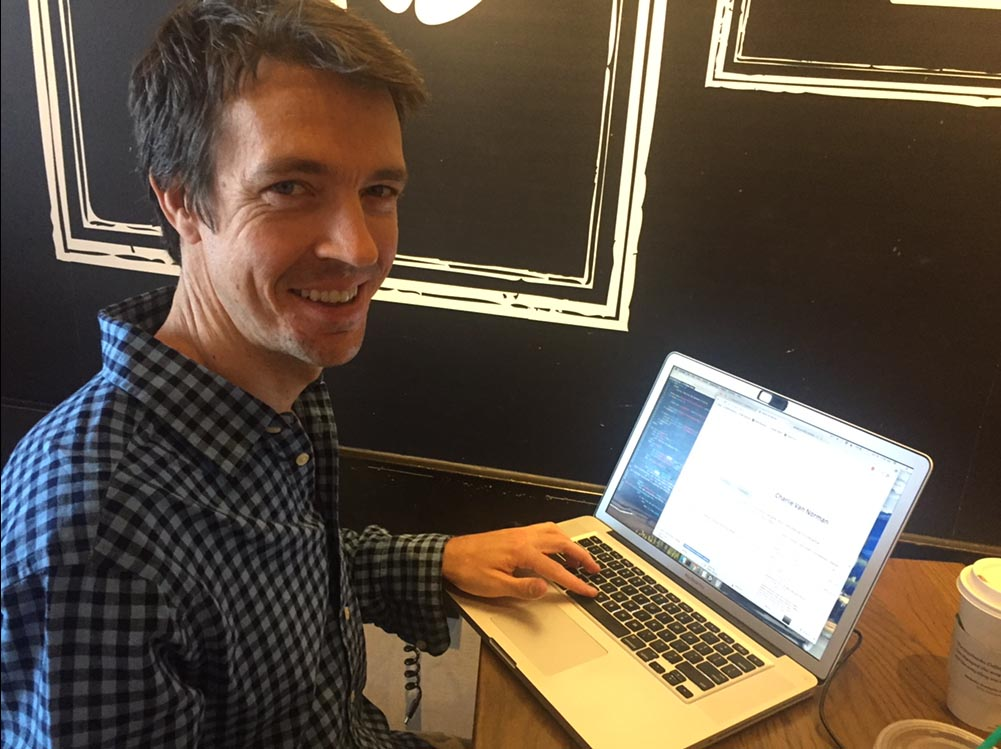
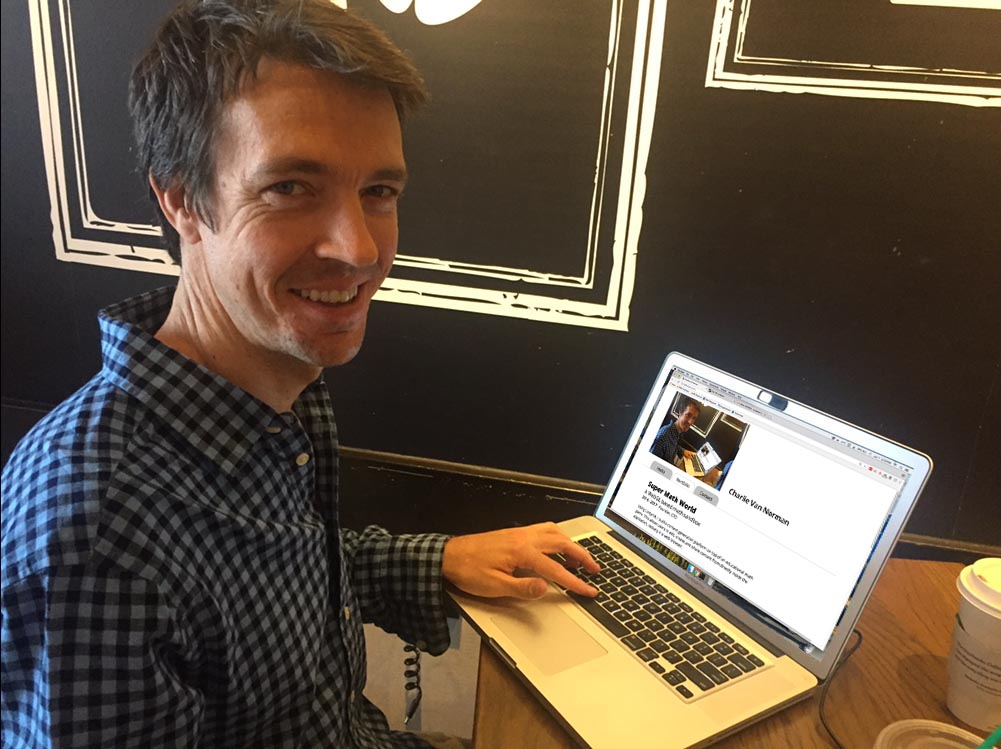
$1

Changed region(s): [[0.5884, 0.4913, 0.8362, 0.8291], [0.7742, 0.6142, 0.9291, 0.8905], [0.8052, 0.5834, 0.8671, 0.6142]]

diff --git a/charlievannorman/templates/home.html b/charlievannorman/templates/home.html
@@ -14,7 +14,7 @@
 
 	{% block scripts %}
 		<script src='{% static "js/jquery-1.11.0.min.js" %}'></script>
-		<script src='{% static "js/home.js" %}'></script>
+		<script src='static/js/home.js'|add:version|safe %}'></script>
 		<script src='static/js/imageviewer.js'|add:version|safe ></script>
 		<script src='static/js/vimeoPopup.js'|add:version|safe ></script>
 		<script src='static/js/scrollcontrol.js'|add:version|safe ></script>
@@ -45,32 +45,31 @@
 	</div>
 	<div id="tabs">
 		<ul>
-			<li id="tabButtonAbout" class="tabButton selected">Hello</li>
-			<li id="tabButtonPortfolio" class="tabButton">Portfolio</li>
-			<li id="tabButtonContact" class="tabButton">Contact</li>
+			<li class="tabButton selected">Hello</li>
+			<li class="tabButton">Portfolio</li>
+			<li class="tabButton">Resume</li>
+			<li class="tabButton">Contact</li>
 		</ul>
 		<div id="tabsContainer">
 
 			<!-- tabs content begins here -->
 			<div id="tabAbout" class='tab'>
-				<h3> Hello world! I am a game designer and web developer. </h3>
-				<p>
-					The spaces I am most passionate about are:
+				I am a game designer and software developer. I work best with small, agile teams (e.g. startups).
+				
+					<p>
+					Some spaces I am interested in:
 					<ul>
-						<li> Education</li>
-						<li> Biotech & chemistry </li>
-						<li> 3D interaction design </li>
+						<li> Educational video games</li>
+						<li> Biotech & chemistry simulations </li>
 						<li> Machine Learning </li>
+						<li> Real Estate </li>
 					</ul>
 				</p>
-				<p> My pastimes include: 
+				<p> Other stuff I enjoy doing: 
 					<ul>
 						<li> Playing Go (Rank ~5kyu)</li>
 						<li> Composing and playing music, mainly Keyboard and Guitar </li>
 						<li> Climbing & Bouldering </li>
-						<li> Carpentry </li>
-						<li> Constructing imaginary cities </li>
-						<li> Making video games </li>
 					</ul>
 				</p>
 						
@@ -81,18 +80,24 @@
 				<ul>
 					{% for item in portfolio %}
 						<li class='item'>
-							<div class="top">
-								<div class='title'> 
-									{{ item.title }}
-								</div>
-								<div class='subtitle'> 
-									{{ item.subtitle }}
-									<div class="year">{{item.year}}</div>
-								</div>
+							<div class="top1">
+								<div class='title'><a href={{item.link}} target="_blank"> {{ item.title }} </a></div>
+								<div class='subtitle'> {{ item.subtitle }}	</div>
 							</div>
-							<div class="description">{{ item.description|safe }}
+							<div class="top2">
+								<div class="year">{{item.year}}</div>
+								<div class="position">{{item.position}}</div>
+								
+							</div>
+							<div class="description">
+								{{ item.description|safe }}
+							</div>
+							<div class="responsibilities">	
+								<div class="head">
+									My responsibilities:
+								</div>
 								<ul>
-									{% for d in item.description_list %}
+									{% for d in item.responsibilities %}
 										<li> {{ d }} </li>
 									{% endfor %}
 								</ul>
@@ -121,8 +126,11 @@
 					{% endfor %}
 				</ul>
 			</div>
+			<div id="tabResume" class='tab'>
+				<div class='img'></div>
+			</div>
 			<div id="tabContact" class='tab'>
-				Email: me@charlievannorman.com
+				Email: <a href="mailto:me@charlievannorman.com?subject=Hi!" target="_blank">me@charlievannorman.com</a>
 			</div>
 
 		</div>

diff --git a/static/css/home.css b/static/css/home.css
@@ -122,8 +122,20 @@ body {
 	position:absolute; top:0px; left:30px;
 	
 }
-#tabPortfolio, #tabContact {
+#tabAbout, #tabContact {
+	padding: 30px;
+}
+#tabPortfolio, #tabContact, #tabResume {
 	display:none;
+
+}
+
+#tabResume .img {
+	 background-image:url("/static/img/resume.png");
+	background-size:cover;
+	width:100%;
+	height:160%;
+	background-position:center;
 }
 
 .imageList {
@@ -141,60 +153,69 @@ body {
 
 }
 
-.item .top {
-	margin-top:20px;
+.item .top1, .item .top2 {
 	width:100%;
 	position:relative;
 	top:0;
-	height:80px;
+	display:block;
+}
+.item .top1 {
+	margin-top:20px;
+	height:auto;
+
+}
+.item .top2 {
+	height:auto;
+	margin-top:-10px;
 }
 .item .title {
 	font-size:29px;
-	font-weight:800;
+	font-weight:600;
 	position:relative;
-	float:left;
 	
 }
 .item .year {
 	font-weight:600;
-	font-size:19px;
-	position:absolute;
-	right: 0;
+	display:inline-block;
+	top:30px;
+	padding: 10px 10px 0 0px;
+}
+.item .position {
+	display:inline-block;
+	left:0;
+	top:35px;
 }
 
 .item .subtitle {
 	top:5px;
 	font-size:22px;
 	font-weight:400;
-	position:absolute;
-	right:0;
+	left:0;
 }
 
 .item .description {
 	width:640px;
-	margin: 20px 0 50px 0;
+	margin: 20px 0 20px 0;
 	position:relative;
 }	
-
-
-
-
 
 .imageList > li > a {
 	position:relative;
 }
 .imageList > li > a > .img {
-	width:200px; height:120px; background-size:cover;
+	width:150px; 
+	height:90px; 
+	background-size:cover;
 	position:relative;
 }
 
 .imageHover {
-	width:200px;
-	height: 120px;
+	width:150px;
+	height: 90px;
 	background-color:transparent;
 	z-index:105;
 	position:absolute;
-	top:-120px;
+	top:-90px;
 	transition: all .3s;
 	-webkit-transition: all .3s;
 }
@@ -208,8 +229,8 @@ body {
 	background-repeat:no-repeat;
 	width:65px; height: 65px;
 	position:absolute;	
-	top:-90px;
-	left:65px;
+	top:-80px;
+	left:45px;
 }
 
 
@@ -217,6 +238,26 @@ body {
 	margin-top:20px;
 
 }
-#tabPortfolio .item .description > ul > li {
+#tabPortfolio .item .responsibilities > ul {
+	margin : 0; padding:0;
+}
+
+
+#tabPortfolio .item .responsibilities > ul > li {
 	display:block;
+}
+
+#tabPortfolio .item .responsibilities > .head {
+	font-weight:600;
+}
+a {
+	text-decoration:none;
+	color:black;
+}
+a:hover {
+	text-decoration:underline;
+}
+a, a:-webkit-any-link, a:visited, { 
+	color:black;
+	text-decoration:none;	
 }

diff --git a/static/js/home.js b/static/js/home.js
@@ -1,5 +1,5 @@
 $(document).ready(function(){
-	$('#tabButtonAbout').click(function(){
+/*	$('#tabButtonAbout').click(function(){
 		ShowTab($(this),$('#tabAbout'));
 	});
 	$('#tabButtonPortfolio').click(function(){
@@ -7,24 +7,26 @@ $(document).ready(function(){
 	});
 	$('#tabButtonContact').click(function(){
 		ShowTab($(this),$('#tabContact'));
+	}); */
+	$('.tabButton').click(function(){
+		$('.tabButton').each(function(){
+			$(this).removeClass('selected');
+		});
+		ShowTab($(this).index());
+		$(this).addClass('selected');
 	});
+//	ShowTab($('#tabButtonPortfolio'),$('#tabPortfolio'));
 });
 
-function HideTabs () {
+function ShowTab(i){
 	$('.tab').each(function(){
-		$(this).fadeOut();
-	});
-	$('.tabButton').each(function(){
-		$(this).removeClass('selected');
+		if ($(this).index() == i){
+			$(this).fadeIn();
+		} else {
+			$(this).fadeOut();
+		}
 	});
 
 }
 
-function ShowTab($button,$el) {
-	if ($button.hasClass('selected')) return;
-	HideTabs();
-	$el.fadeIn();
-	$button.addClass('selected');
-//	window.history.pushState({},"", "#"+$el.attr('id'));
- 
-}
+

diff --git a/charlievannorman/views.py b/charlievannorman/views.py
@@ -31,54 +31,49 @@ def home(request):
 	obj['portfolio'] = []
 	obj['portfolio'].append({
 		"title" : "Super Math World",
+		"link" : "https://supermathworld.com",
 		"year" : "2016 - 2017",
-		"subtitle" : "An online math sandbox using WebGL",
-		"description" : """
-			I was responsible for:
-		""",
-		"description_list" : 
-			[
-				"3D interaction design",
-				"Game conscrution kit design",
-				"Game development using Unity/c#",
-				"Web development using python/django/SQL",
+		"position" : "Founder, CTO",
+		"subtitle" : "A WebGL based math sandbox",
+		"description" : "I built a content generation platform on top of an educational math game. This allows users to edit, create, and share content from directly inside the application, natively in a web browser.",
+		"responsibilities" : 
+		[
+				"Framework architecture",
+				"Game design",
+				"Web backend using python/django/SQL",
 				"SysAdmin using AWS EC2, Route53, SSL, S3, and Cloudfront",
-				"Integrated payment system using Strip",
-				"Maintained full integration pipeline from feature to production",
-				"Playtests with students and teachers"
+				"Payment system using Stripe",
 		],
-#At Super Math World, I built a game creation kit on top of a 3D math puzzler-platformer game. The editor is accessible from the game and takes you to a sky view where you can place and modify objects. In this way, users can use the same tools we use to create content.
-#The WebGL executable is hosted by Amazon S3, served by Apache on Ubuntu. I built the backend using python/django, including the save and load flow (using MySQL on RDS on the back end, and a javascript layer between the game executable and the django server.) 
-#		"my_roles" : ["Unity/c# developer","game designer","c# platform architect","python/django"],
 		"videos" : [
 				{ "source": "https://player.vimeo.com/video/219464062", "image" : "smw_1.jpg" }
 		],
 		"images" : ["smw_2.jpg","smw_4.jpg","smw_3.jpg"],	
-		"link" : "https://supermathworld.com"
 		})
 	obj['portfolio'].append({
 		"title" : "Mathbreakers",
+		"link" : "https://mathbreakers.com",
 		"year" : "2013 - 2015",
-		"subtitle" : "A downloadable math puzzle platformer for grades 2 - 8",
-		"description" : "An adventure puzzle game that teaches fundamental concepts in a playful, visual, and low-pressure way.",
-		"my_roles" : ["Unity/c# developer","game designer"],
+		"position" : "Co-founder",
+		"subtitle" : "A math puzzle platformer for grades 2 - 8",
+		"description" : "We partnered with some of the biggest names in math education, including Dan Meyer and Jo Boaler, to discover the intersection between 3-D action gaming and elementary mathematics. The result was a truly immersive, stress free math game that kids love to play.",
+		"responsibilities" : ["Game design","Game development","Playtesting","Educational content","Business development"],
 		"videos" : [
 				{ "source": "https://player.vimeo.com/video/73754523", "image" : "mb_1.jpg" }
 		],
 		"images" : ["mb_2.jpg","mb_3.jpg","mb_4.jpg"],	
-		"link" : "https://mathbreakers.com"
 		})
 	obj['portfolio'].append({
-		"title" : "Mouse Brain Explorer VR",
+		"title" : "Mouse Brain Explorer",
+		"link" : "https://3scan.com",
 		"year" : "2015",
+		"position" : "Contractor",
 		"subtitle" : "Fly through a real mouse brain",
-		"description" : "Use XBOX controller and Oculus VR to pilot an imaginary ship through a real mouse brain. The one cubic centimeter brain was imaged by 3Scan.",
-		"my_roles" : ["Unity/c# developer","game designer"],
+		"description" : "Using a cubic centimeter of a mouse brain imaged with 3Scan's equipment, I made a virtual reality tour through the vasculature and a mini-game to destroy blood clots. This was on exhibit during the Exploratorium's science week in 2015.",
+		"responsibilities" : ["Simulation developer","Oculus, PC, and XBox controller setup"],
 		"videos" : [
 				{ "source": "https://player.vimeo.com/video/117482417", "image" : "3scan_1.jpg" }
 		],
 		"images" : [],	
-		"link" : "https://3scan.com"
 		})
 
 
